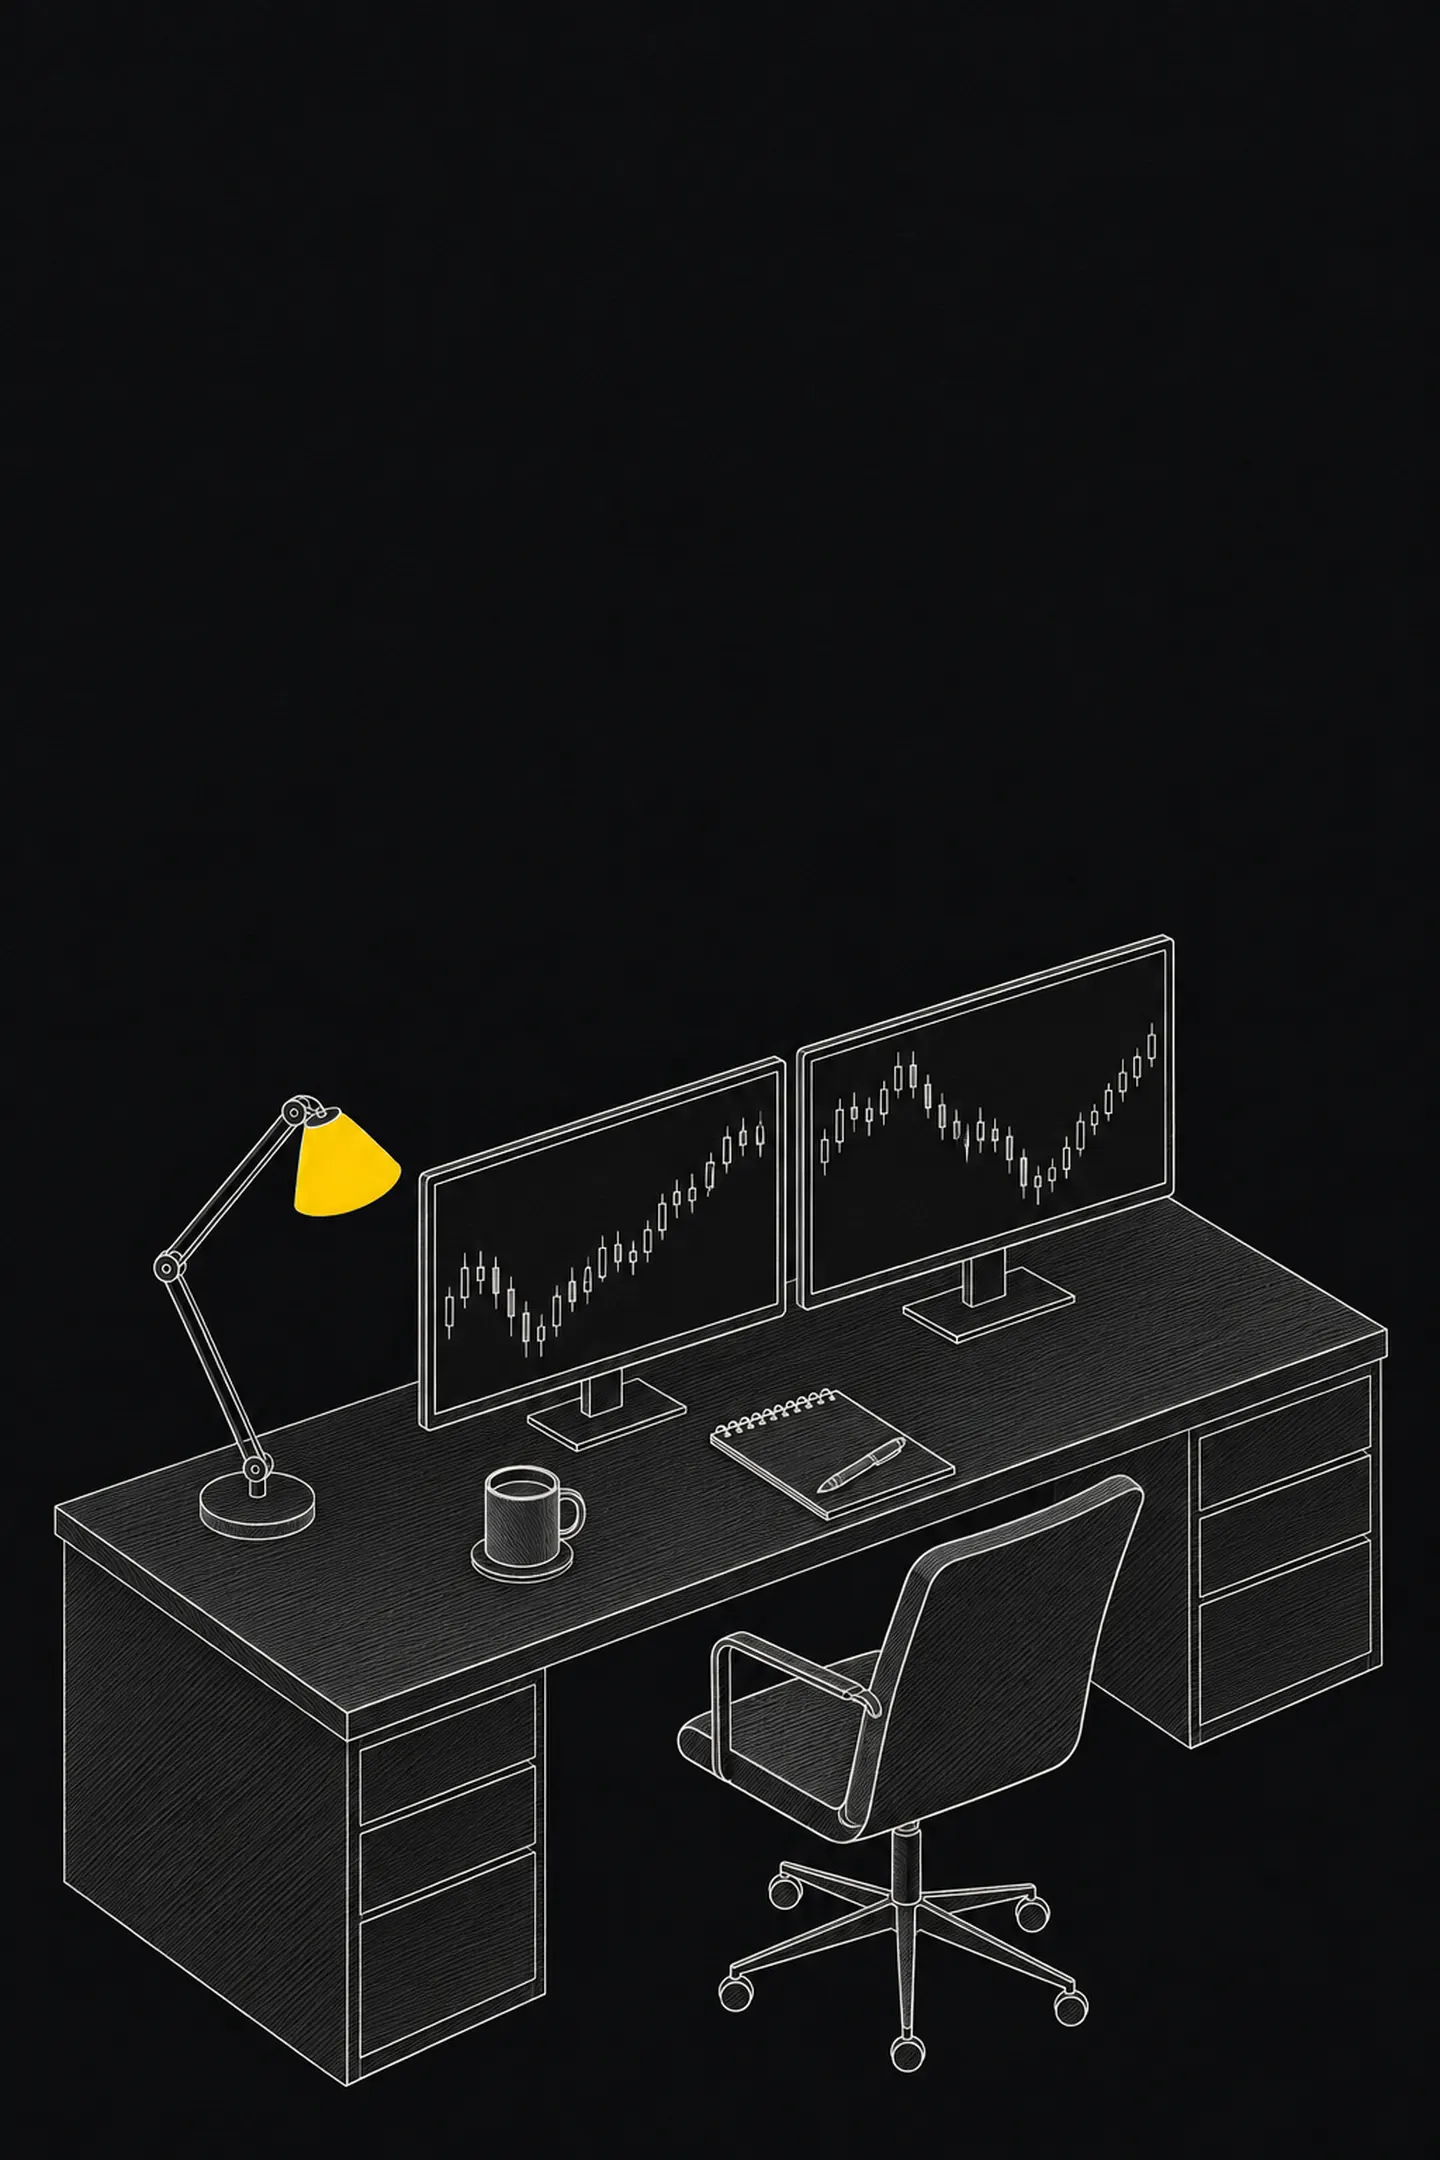
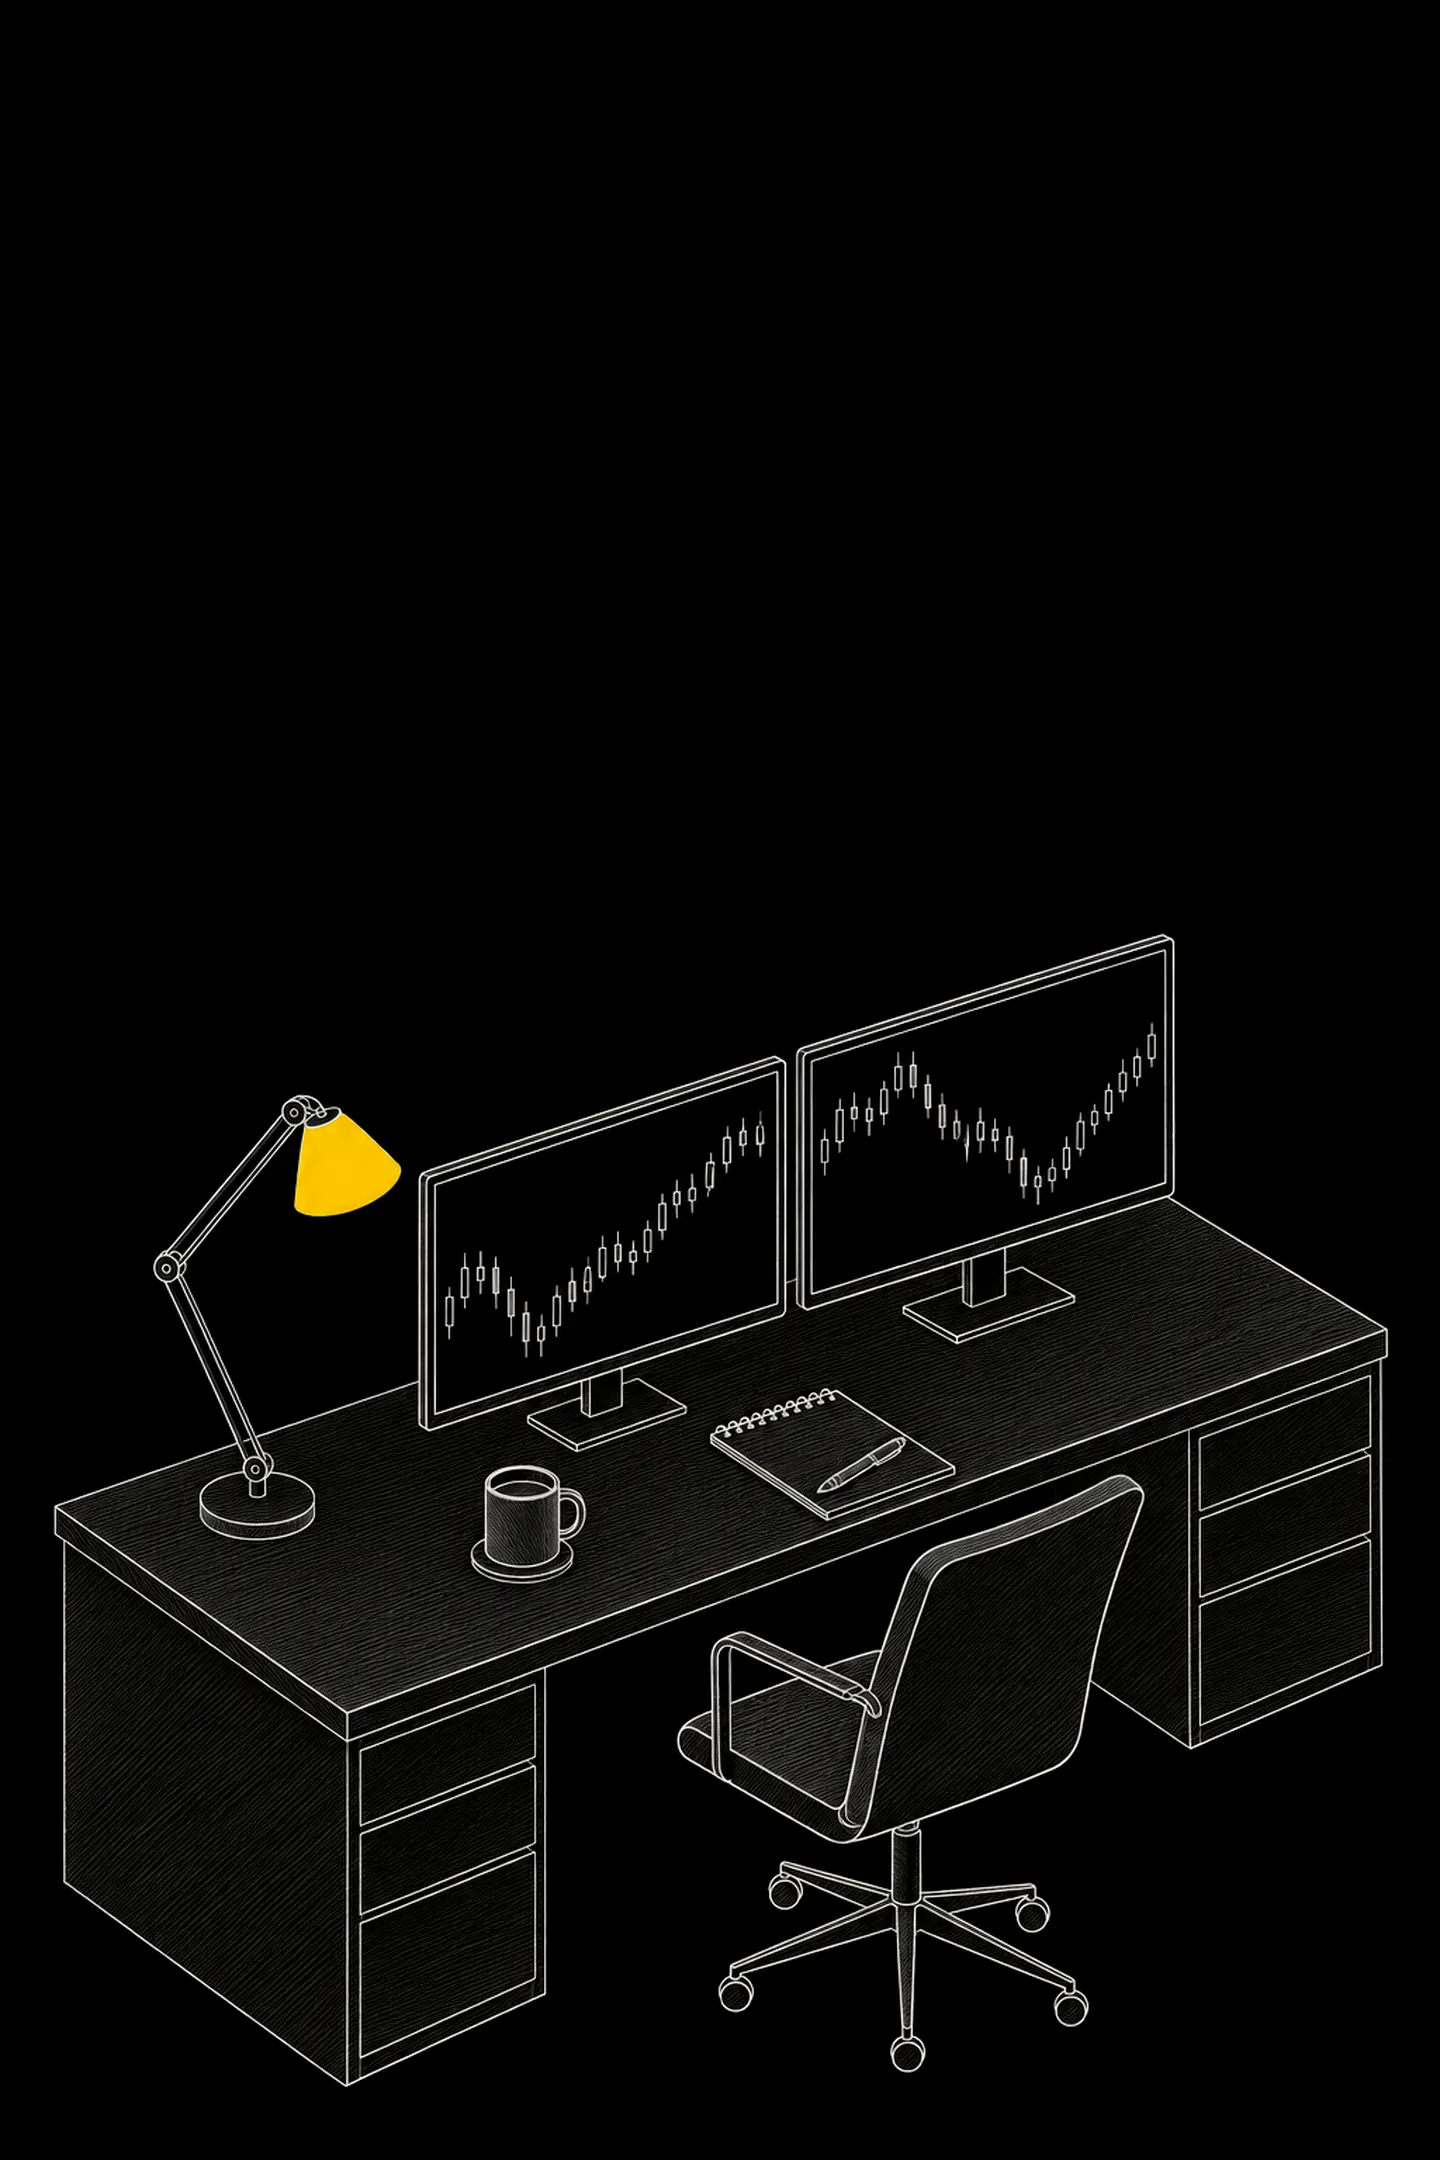
Auth plates blend into the Desk: graded to black, lighten blend, feathered edges
Each plate's own ground (sampled #0A-#15 with vignette and grain) is levelled to pure
black and the plate is laid on the panel with lighten, so its background takes #0E0F11
exactly. All edges are feathered, including the phone strip. The night city is cropped
past its window frame and sill, and the desktop frame scales with the vw-sized headline
so short windows (1024x700) get a usable plate.

Claude-Session: https://claude.ai/code/session_013XLKyNPuVpjGeY288e5rk2

Changed region(s): [[0.0312, 0.5583, 0.9375, 0.9616], [0.5938, 0.8685, 0.625, 0.8995]]

diff --git a/apps/web/features/marketing/landing.css b/apps/web/features/marketing/landing.css
@@ -674,22 +674,37 @@ html[data-scrolled] .lv-header > div {
 
 /* ---------- auth plates ---------- */
 /*
+ * The plates are graded so their own ground is pure black, and the plate is laid on the Desk with
+ * `lighten`: anything darker than #0E0F11 takes the panel's exact colour, so the picture has no box,
+ * while the hairlines and the yellow (brighter than the panel in every channel that matters) stay.
+ * Every edge is also feathered, so photographic plates with content at the edge melt as well.
+ */
+.tv-plate {
+  mix-blend-mode: lighten;
+}
+.tv-plate-frame {
+  -webkit-mask-image: linear-gradient(to bottom, transparent, #000 24%, #000 76%, transparent), linear-gradient(to right, transparent, #000 8%, #000 92%, transparent);
+  -webkit-mask-composite: source-in;
+  mask-image: linear-gradient(to bottom, transparent, #000 24%, #000 76%, transparent), linear-gradient(to right, transparent, #000 8%, #000 92%, transparent);
+  mask-composite: intersect;
+}
+/*
  * Desktop: the art sits in each plate between 43% and 97% of its height, so the frame is sized to put
- * that band between the header (80px) and the headline block (the bottom 360px). Edges are masked so
- * the picture melts into the Desk ground. The plate wipes up once, then the picture drifts slowly.
+ * that band between the header (80px) and the headline block (the bottom 260px + 17vw, which tracks
+ * the vw-sized headline).
  */
 @media (min-width: 768px) {
   .tv-plate-frame {
-    --h: calc((max(100svh, 640px) - 500px) / 0.54);
+    --h: calc((max(100svh, 640px) - 260px - 17vw) / 0.54);
     position: absolute;
     left: 50%;
     top: calc(80px - 0.43 * var(--h));
     height: var(--h);
     aspect-ratio: 2 / 3;
     transform: translateX(-50%);
-    -webkit-mask-image: linear-gradient(to bottom, transparent 36%, #000 44%, #000 94%, transparent), linear-gradient(to right, transparent, #000 10%, #000 90%, transparent);
+    -webkit-mask-image: linear-gradient(to bottom, transparent 34%, #000 46%, #000 90%, transparent), linear-gradient(to right, transparent, #000 18%, #000 82%, transparent);
     -webkit-mask-composite: source-in;
-    mask-image: linear-gradient(to bottom, transparent 36%, #000 44%, #000 94%, transparent), linear-gradient(to right, transparent, #000 10%, #000 90%, transparent);
+    mask-image: linear-gradient(to bottom, transparent 34%, #000 46%, #000 90%, transparent), linear-gradient(to right, transparent, #000 18%, #000 82%, transparent);
     mask-composite: intersect;
   }
   .tv-plate-img {
